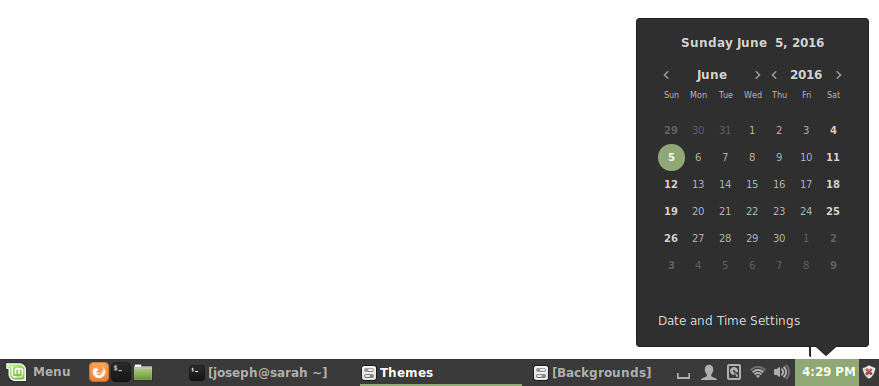
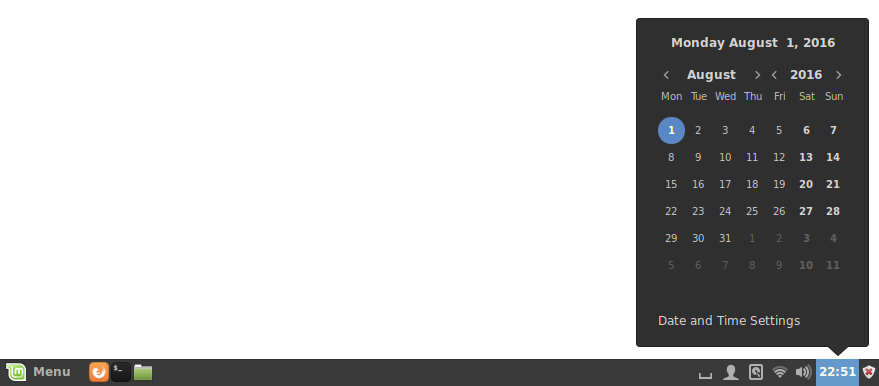
Blue is the new mint

diff --git a/src/cinnamon/sass/_colors.scss b/src/cinnamon/sass/_colors.scss
@@ -8,7 +8,7 @@ $bg_color: if($variant =='light', #F0F0F0, #2f2f2f);
 $fg_color: if($variant =='light', #4a4a4a, #D3D3D3);
 
 $selected_fg_color: #ffffff;
-$selected_bg_color: if($variant == 'light', #9ab87c, #8fa876);
+$selected_bg_color: if($variant == 'light', #6598cb, #5a88c5);
 $selected_borders_color: darken($selected_bg_color, 20%);
 $borders_color: if($variant =='light', darken($bg_color,9%), darken($bg_color,6%));
 

diff --git a/src/gtk-3.0/3.18/sass/_colors.scss b/src/gtk-3.0/3.18/sass/_colors.scss
@@ -8,7 +8,7 @@ $bg_color: if($variant =='light', #F0F0F0, #383838);
 $fg_color: if($variant =='light', #4a4a4a, #DADADA);
 
 $selected_fg_color: #ffffff;
-$selected_bg_color: if($variant == 'light', #9ab87c, #8fa876);
+$selected_bg_color: if($variant == 'light', #6598cb, #5a88c5);
 $selected_borders_color: darken($selected_bg_color, 20%);
 $borders_color: if($variant =='light', darken($bg_color,9%), darken($bg_color,6%));
 

diff --git a/src/build-themes.py b/src/build-themes.py
@@ -2,9 +2,9 @@
 
 import os
 
-VARIATIONS = ["Mint-Y",
-              "Mint-Y-Darker",
-              "Mint-Y-Dark"]
+VARIATIONS = ["Mint-Y-Blue",
+              "Mint-Y-Blue-Darker",
+              "Mint-Y-Blue-Dark"]
 
 DEST = '../usr/share/themes'
 
@@ -37,8 +37,8 @@ if __name__ == '__main__':
     print("Building themes")
     for variation in VARIATIONS:
         dest_folder = os.path.join(DEST, variation)
-        if variation == "Mint-Y":
-            print("    Building Mint-Y")
+        if variation == "Mint-Y-Blue":
+            print("    Building Mint-Y-Blue")
             os.system("cp index.theme %s" % dest_folder)
             # Gtk2
             version_folder = os.path.join(dest_folder, "gtk-2.0")
@@ -61,8 +61,8 @@ if __name__ == '__main__':
             os.system("cp cinnamon/mint-y-thumbnail.png %s" % os.path.join(version_folder, "thumbnail.png"))
             os.system("cp cinnamon/cinnamon.css %s" % version_folder)
 
-        elif variation == "Mint-Y-Darker":
-            print("    Building Mint-Y-Darker")
+        elif variation == "Mint-Y-Blue-Darker":
+            print("    Building Mint-Y-Blue-Darker")
             os.system("cp index.theme-darker %s" % os.path.join(dest_folder, "index.theme"))
             # Gtk2
             version_folder = os.path.join(dest_folder, "gtk-2.0")
@@ -77,8 +77,8 @@ if __name__ == '__main__':
             os.system("cp gtk-3.0/3.18/gtk-dark.css %s" % version_folder)
             os.system("cp gtk-3.0/3.18/thumbnail.png %s" % version_folder)
 
-        elif variation == "Mint-Y-Dark":
-            print("    Building Mint-Y-Dark")
+        elif variation == "Mint-Y-Blue-Dark":
+            print("    Building Mint-Y-Blue-Dark")
             os.system("cp index.theme-dark %s" % os.path.join(dest_folder, "index.theme"))
             # Gtk2
             version_folder = os.path.join(dest_folder, "gtk-2.0")
